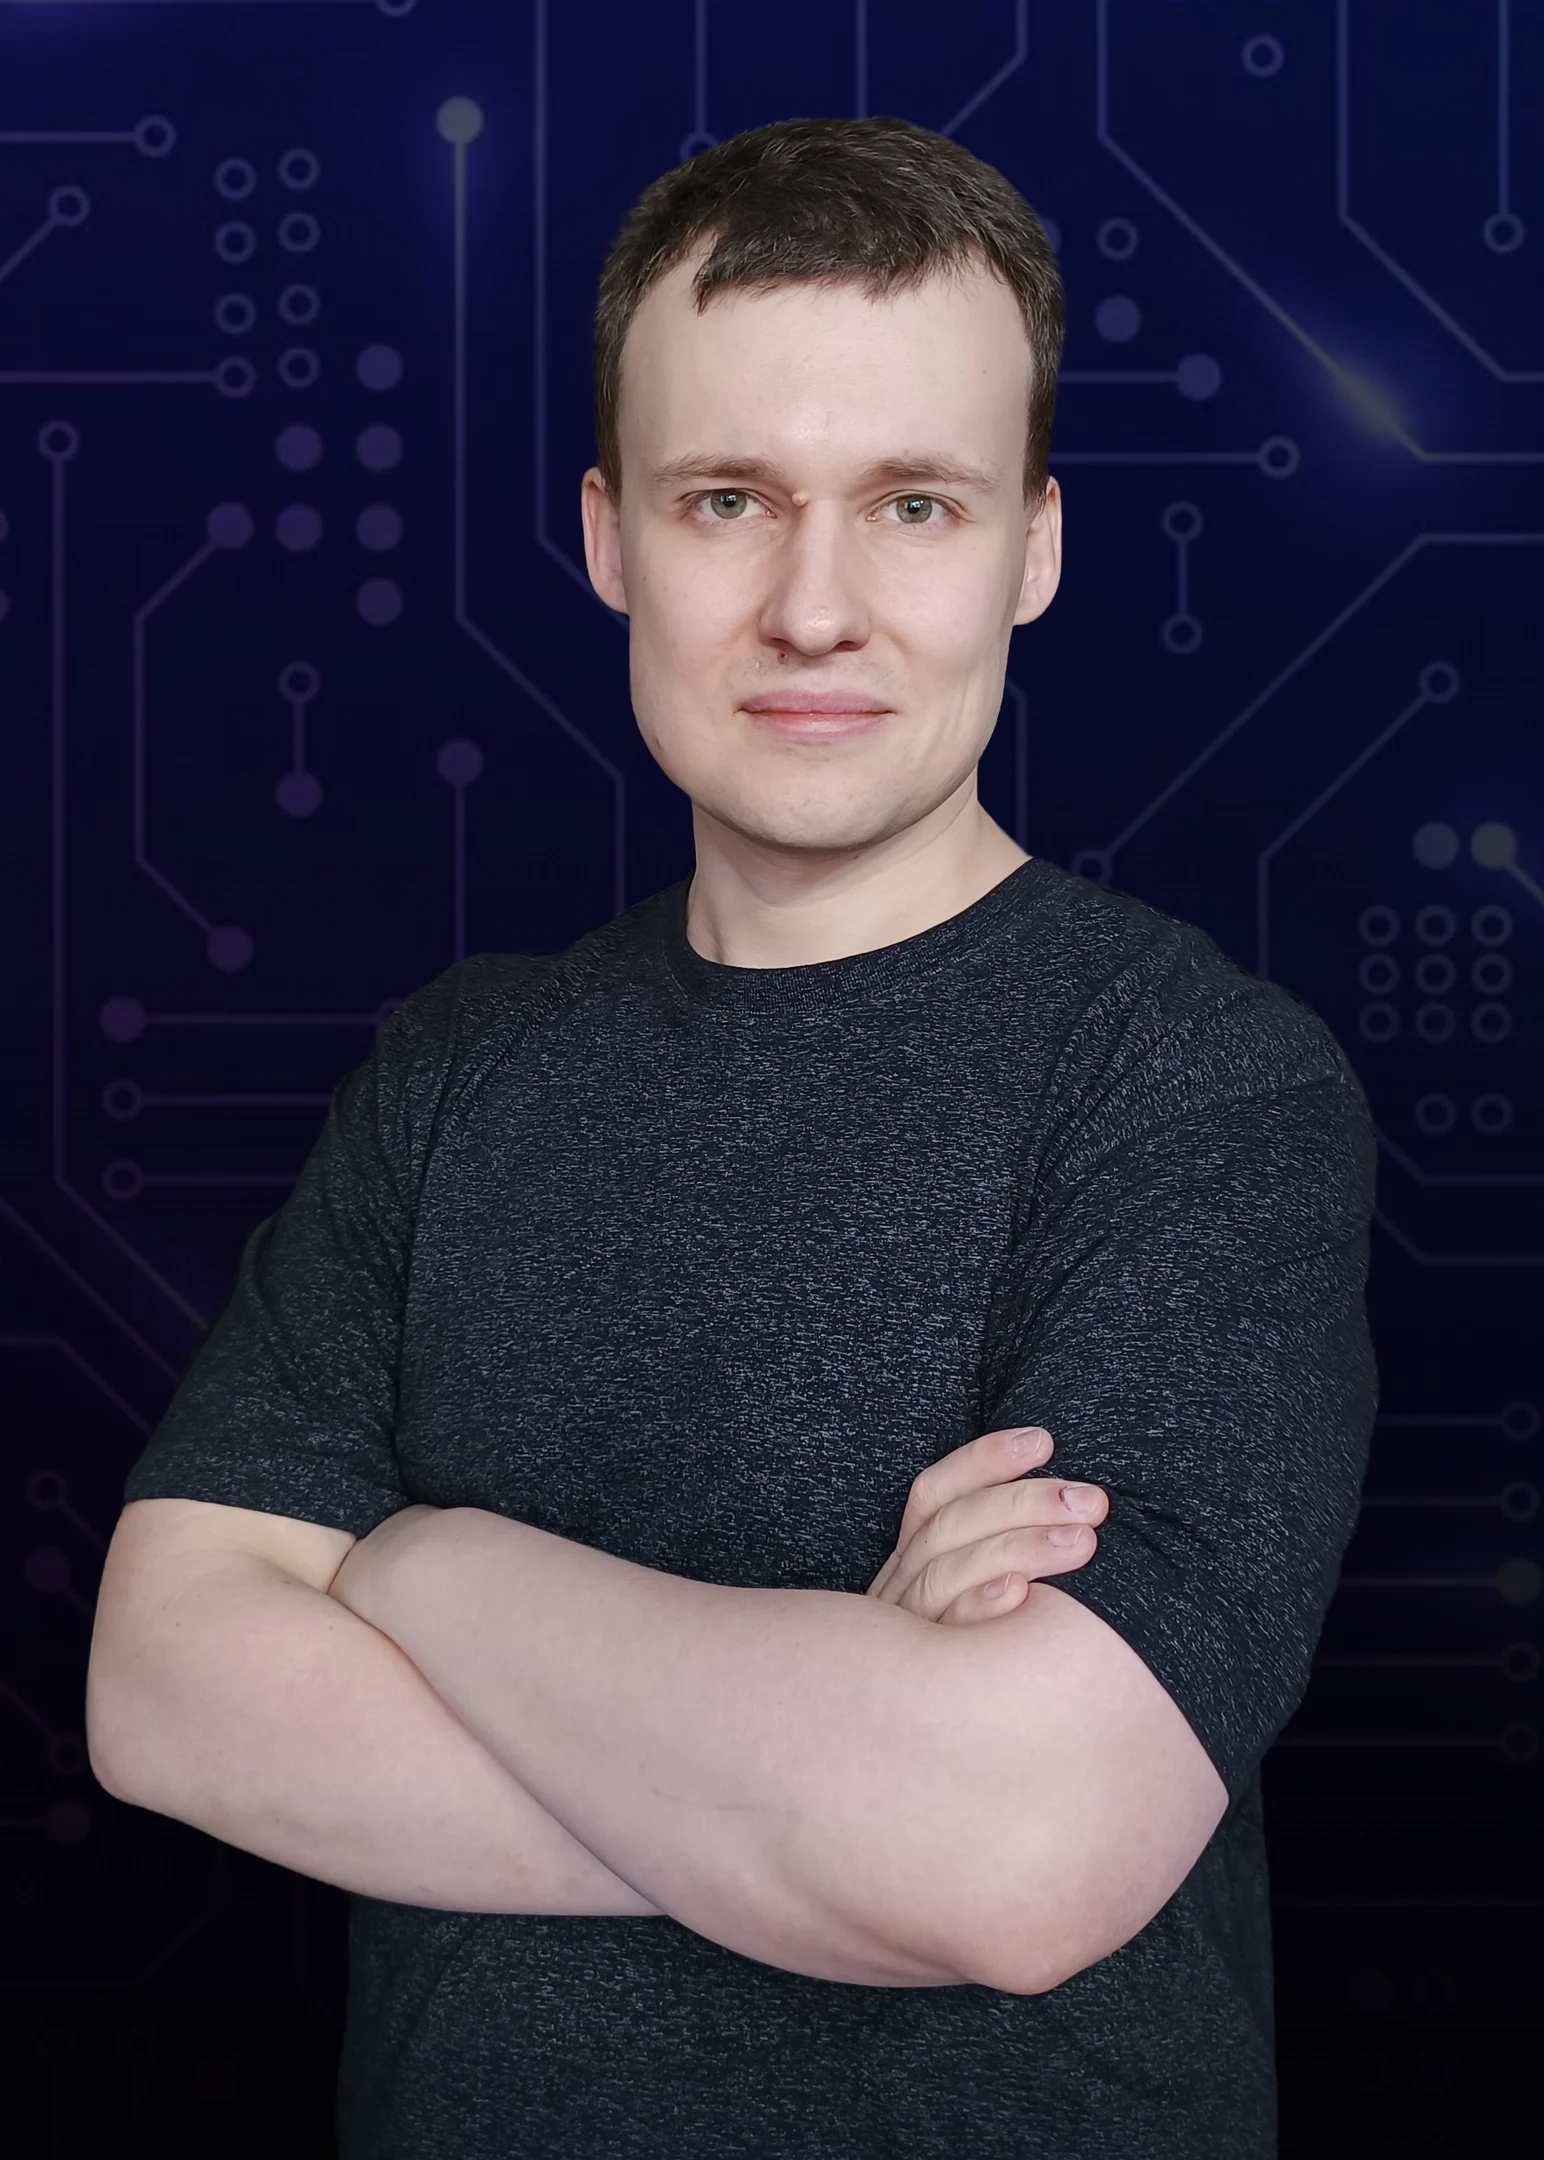
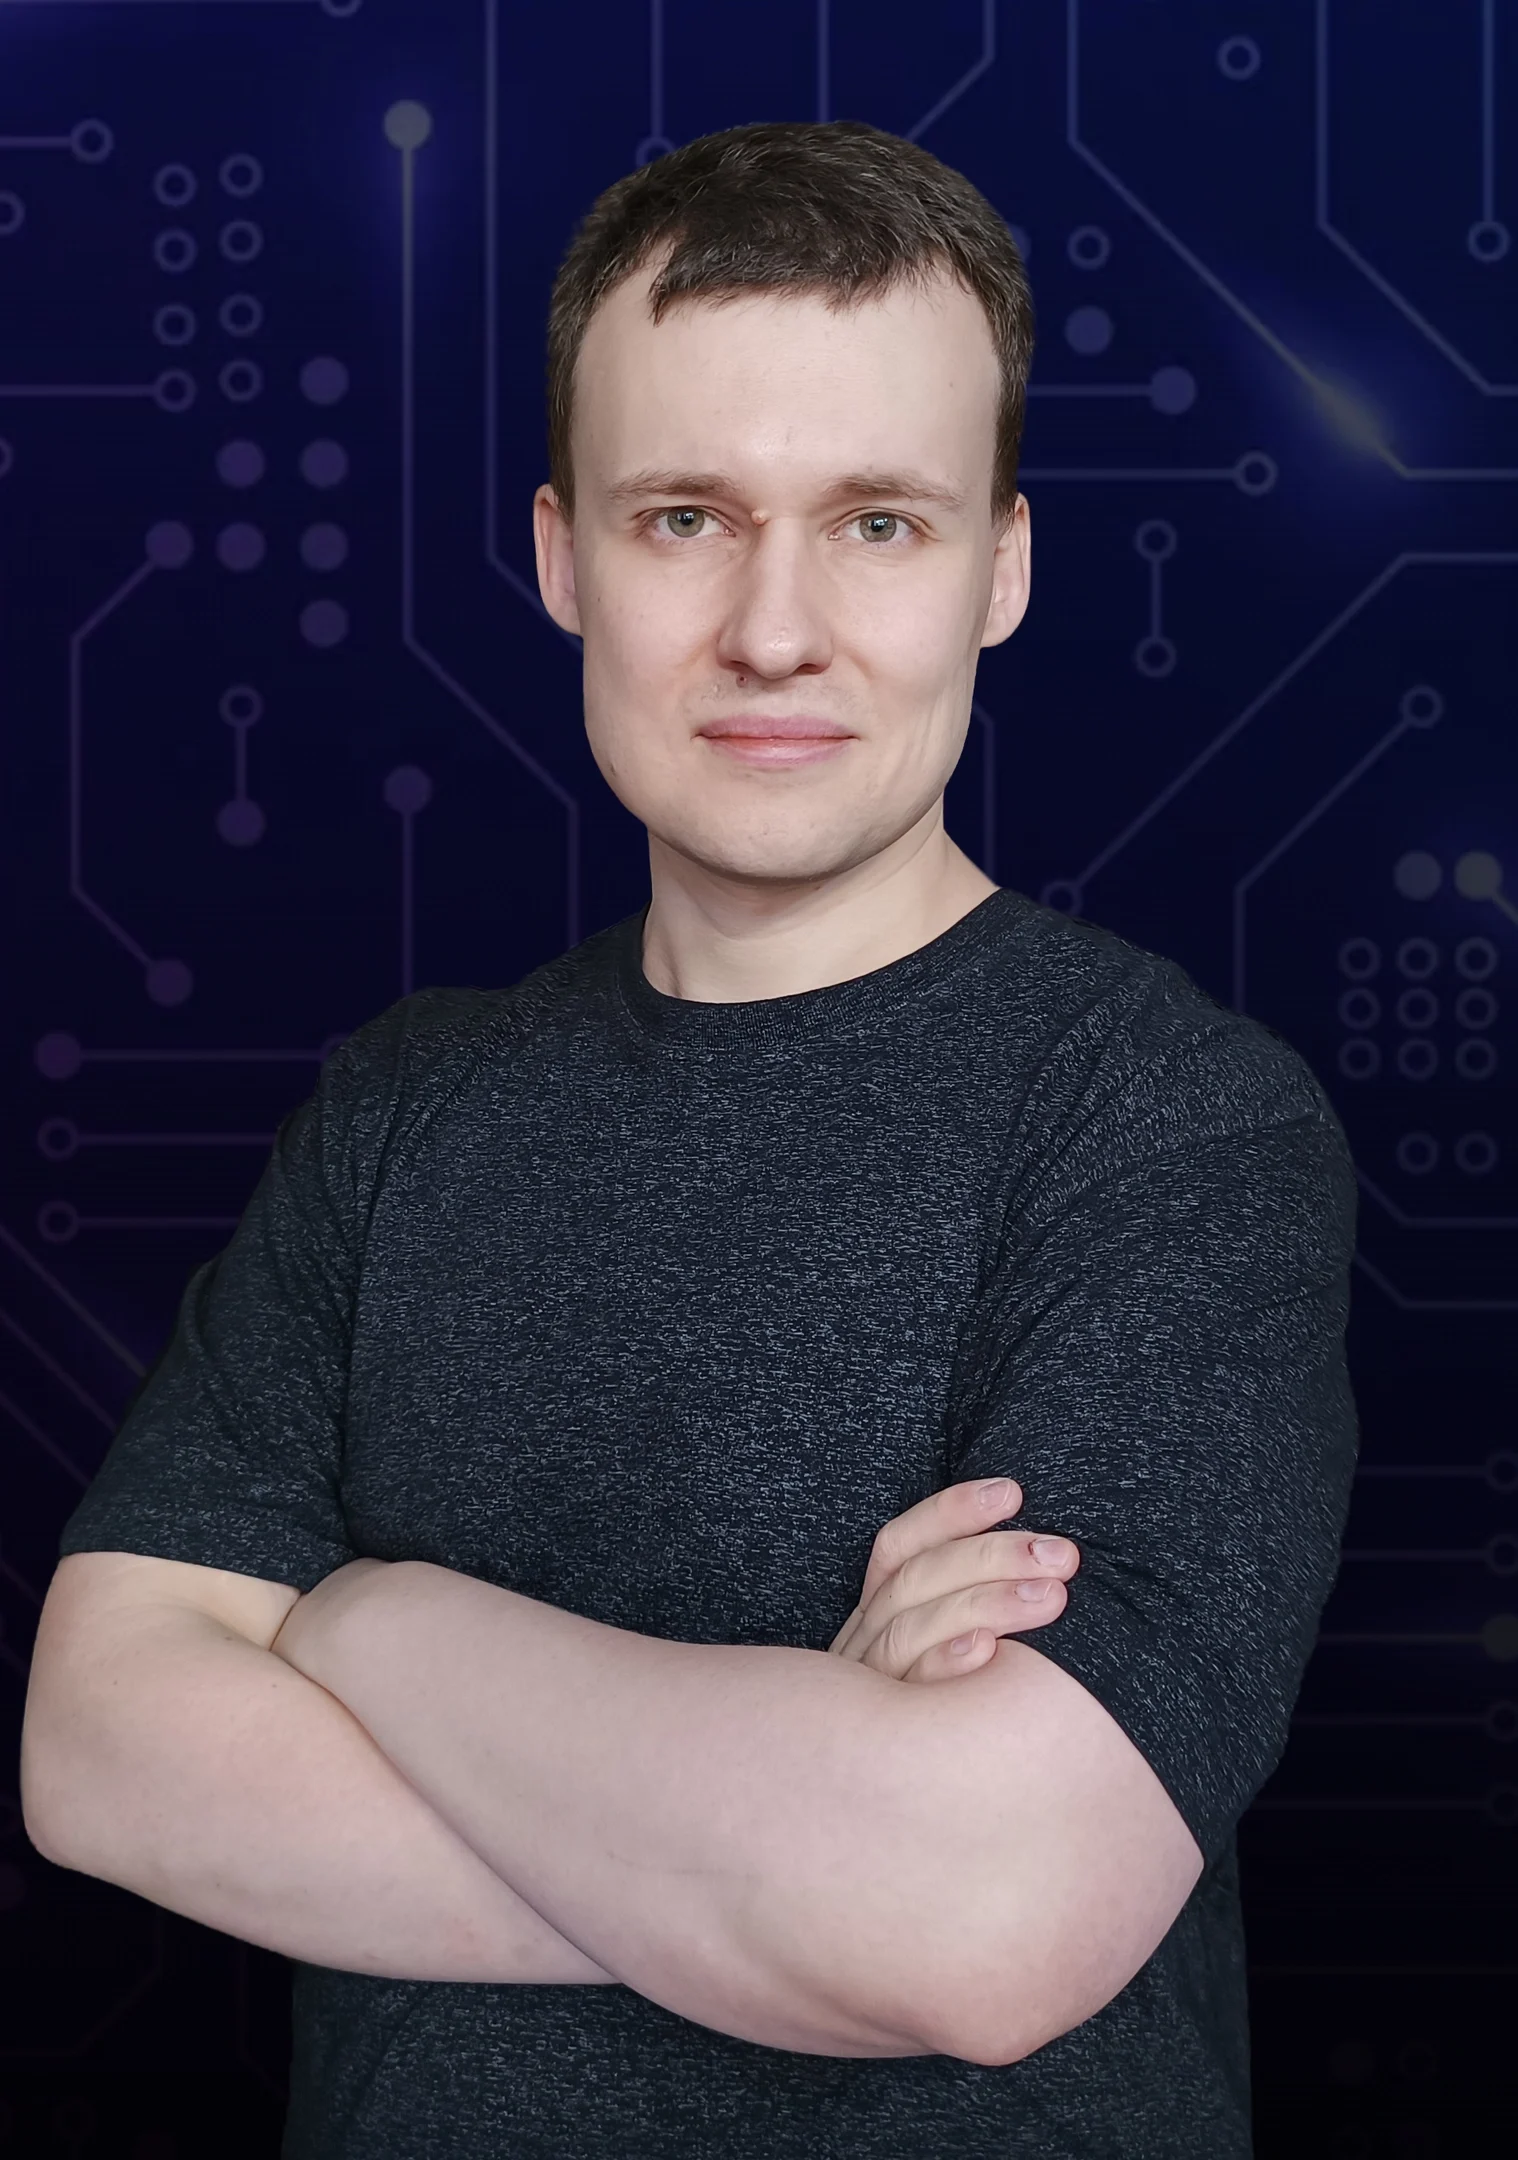
updated Wizard-Component with better css styles and scroll-into-view on step change

diff --git a/pages/advert/1.tsx b/pages/advert/1.tsx
@@ -29,7 +29,7 @@ export default function Advert1() {
       sx={{
         "& h1": {
           textTransform: "uppercase",
-          fontSize: "52pt",
+          fontSize: "48pt",
           lineHeight: "52pt",
           whiteSpace: "nowrap",
           margin: `0 0 12pt 0`,
@@ -37,6 +37,7 @@ export default function Advert1() {
         "& p": {
           margin: 0,
         },
+        border: "1px dashed black",
       }}
     >
       <h1>
@@ -44,42 +45,7 @@ export default function Advert1() {
         <LightGreyText>-</LightGreyText>в<LightGreyText>-</LightGreyText>
         Балашихе<LightGreyText>.рф</LightGreyText>
       </h1>
-      <Stack
-        direction="row"
-        width="100%"
-        alignContent={"space-between"}
-        alignItems="flex-end"
-      >
-        <Typography
-          fontSize="40pt"
-          lineHeight={"40pt"}
-          variant="h2"
-          color="grey.500"
-          fontWeight={600}
-          flexGrow={1}
-        >
-          Сайт
-        </Typography>
-        <Typography
-          fontSize="38pt"
-          lineHeight={"38pt"}
-          variant="h2"
-          color="grey.700"
-          fontWeight={600}
-        >
-          тел.&nbsp;
-        </Typography>
-        <Typography
-          fontSize="40pt"
-          lineHeight={"40pt"}
-          variant="h2"
-          color="grey.800"
-          fontWeight={600}
-        >
-          {NEXT_PUBLIC_CONTACT_PHONE_TEXT}
-        </Typography>
-      </Stack>
-      <Grid container spacing={2}>
+      <Grid container spacing={3} sx={{}}>
         <Grid
           item
           xs={4}
@@ -91,6 +57,16 @@ export default function Advert1() {
             },
           }}
         >
+          <Typography
+            fontSize="40pt"
+            lineHeight={"40pt"}
+            variant="h2"
+            color="grey.500"
+            fontWeight={600}
+            flexGrow={1}
+          >
+            Мой сайт
+          </Typography>
           <Image
             src="/images/advert/site_url_qr_code.svg"
             width={1600}
@@ -108,26 +84,55 @@ export default function Advert1() {
             textAlign: "right",
             height: "440pt",
             width: "440pt",
-            pt: "10pt",
-            "& img": {
-              position: "absolute",
-              top: "10pt",
-              left: 0,
-              right: 0,
-              height: "440pt",
-              width: "440pt",
-              objectFit: "contain",
-            },
           }}
         >
-          <Image
-            src="/images/advert/grey-master-v-balashihe-rf-screwdriver.svg"
-            width={600}
-            height={600}
-            unoptimized
-            alt=""
-            loading="eager"
-          />
+          <Stack width="100%" direction={"row"} alignItems="flex-end">
+            <Typography
+              fontSize="38pt"
+              lineHeight={"38pt"}
+              variant="h2"
+              color="grey.700"
+              fontWeight={600}
+            >
+              тел.&nbsp;
+            </Typography>
+            <Typography
+              fontSize="40pt"
+              lineHeight={"40pt"}
+              variant="h2"
+              color="grey.800"
+              fontWeight={600}
+            >
+              {NEXT_PUBLIC_CONTACT_PHONE_TEXT}
+            </Typography>
+          </Stack>
+          <Stack
+            width="100%"
+            direction={"column"}
+            alignItems="flex-end"
+            sx={{
+              position: "relative",
+              "& img": {
+                position: "absolute",
+                top: 0,
+                left: 0,
+                right: 0,
+                height: "440pt",
+                width: "440pt",
+                objectFit: "contain",
+                zIndex: -1,
+              },
+            }}
+          >
+            <Image
+              src="/images/advert/grey-master-v-balashihe-rf-screwdriver.svg"
+              width={600}
+              height={600}
+              unoptimized
+              alt=""
+              loading="eager"
+            />
+          </Stack>
         </Grid>
       </Grid>
     </Container>

diff --git a/components/site/LandingPage/LandingWizard/ImagePaper.tsx b/components/site/LandingPage/LandingWizard/ImagePaper.tsx
@@ -1,6 +1,6 @@
 import * as React from "react";
 import Image from "next/image";
-import { Paper, Typography, Box } from "@mui/material";
+import { Paper, Typography, Stack, Box } from "@mui/material";
 type ImageProps = React.ComponentProps<typeof Image>;
 type Props = React.ComponentProps<typeof Paper> & {
   src: ImageProps["src"];
@@ -9,7 +9,34 @@ type Props = React.ComponentProps<typeof Paper> & {
   value: string | null;
   onChange: (event: { target: { name: string; value: string } }) => void;
 };
-
+export const FieldSelectedValue = () => (
+  <Paper
+    elevation={3}
+    sx={{
+      zIndex: 1,
+      position: "absolute",
+      top: 0,
+      left: 0,
+      width: "35px",
+      height: "35px",
+      p: 0,
+      borderRadius: "100%",
+      backgroundColor: (theme) => theme.palette.primary.main,
+      transform: "translate(-50%,-50%)",
+      "&::before": {
+        fontFamily: "Material Icons Round",
+        fontStyle: "normal",
+        paddingLeft: 0,
+        paddingRight: "7px",
+        paddingTop: 0,
+        color: "white",
+        fontSize: "32px",
+        lineHeight: "32px",
+        content: `"\\e876"`,
+      },
+    }}
+  ></Paper>
+);
 export default function ImagePaper({
   src,
   title,
@@ -27,6 +54,7 @@ export default function ImagePaper({
         cursor: "pointer",
         height: "100%",
         width: "100%",
+        minWidth: { xs: "85vw", sm: "inherit" },
         p: { xs: 0, sm: "7px" },
         overflow: "visible",
         borderRadius: "10px",
@@ -35,7 +63,6 @@ export default function ImagePaper({
         "& img": {
           height: "auto",
           width: { xs: "150px", sm: "100%" },
-          mx: { xs: "20px", sm: "inherit" },
           transition: "linear",
           transitionDuration: "0.2s",
           transform: "scale(1.001)",
@@ -45,57 +72,36 @@ export default function ImagePaper({
             transform: "scale(1.1)",
           },
         },
-        display: { xs: "flex", sm: "inherit" },
-        flexDirection: { xs: "row", sm: "none" },
         "& .title": {
-          p: { xs: "30px", sm: 0 },
+          pt: { xs: "30px", sm: 0 },
+          pb: { xs: "10px", sm: 0 },
+          pl: { xs: "20px", sm: 0 },
+          pr: { xs: "10px", sm: 0 },
+          textAlign: { sx: "left", sm: "center" },
+          fontWeight: 400,
+          fontSize: "18px",
+          mt: "-4px",
+          wordBreak: { xs: "break-word", sm: "inherit" },
         },
         ...sx,
       }}
       onClick={() => onChange({ target: { name, value: title } })}
       {...rest}
     >
-      {value === title && (
-        <Paper
-          elevation={3}
-          sx={{
-            zIndex: 1,
-            position: "absolute",
-            top: 0,
-            left: 0,
-            width: "35px",
-            height: "35px",
-            p: 0,
-            borderRadius: "100%",
-            backgroundColor: (theme) => theme.palette.primary.main,
-            transform: "translate(-50%,-50%)",
-            "&::before": {
-              fontFamily: "Material Icons Round",
-              fontStyle: "normal",
-              paddingLeft: 0,
-              paddingRight: "7px",
-              paddingTop: 0,
-              color: "white",
-              fontSize: "32px",
-              lineHeight: "32px",
-              content: `"\\e876"`,
-            },
-          }}
-        ></Paper>
-      )}
-      <Image src={src} alt="" width={300} height={300} />
-      <Typography
-        className={"title"}
-        component={"div"}
+      {value === title && <FieldSelectedValue />}
+      <Stack
+        width="100%"
+        direction="row"
         sx={{
-          fontWeight: 400,
-          fontSize: "18px",
-          mt: "-4px",
-          textAlign: "center",
+          display: { xs: "flex", sm: "block" },
+          flexDirection: { xs: "row", sm: "none" },
         }}
       >
-        {title}
-      </Typography>
+        <Image src={src} alt="" width={300} height={300} />
+        <Typography className={"title"} component={"div"}>
+          {title}
+        </Typography>
+      </Stack>
     </Paper>
   );
 }

diff --git a/components/site/contacts/Wizard/Providers/MyStepWizard.tsx b/components/site/contacts/Wizard/Providers/MyStepWizard.tsx
@@ -130,6 +130,7 @@ const MyStepWizard = ({
   const [progressPercents, setProgressPercents] = React.useState<number>(
     (currentStep / (totalSteps || 1)) * 100
   );
+  const containerRef = useRef<HTMLDivElement | null>(null);
   const setCurrentStep = (nextStepIndex: number): void => {
     if (nextStepIndex > totalSteps) {
       return;
@@ -145,6 +146,14 @@ const MyStepWizard = ({
     setStepsHistory(newStepHistory);
     __setCurrentStep(nextStepIndex);
     setProgressPercents((nextStepIndex / (totalSteps || 1)) * 100);
+    process.nextTick(() => {
+      if (
+        containerRef.current &&
+        typeof containerRef.current.scrollIntoView === "function"
+      ) {
+        containerRef.current.scrollIntoView();
+      }
+    });
   };
   const goToNamedStep = (step: string): void => {
     const namedStepIndex = collectedStepsNames.get(step)?.index;
@@ -211,6 +220,7 @@ const MyStepWizard = ({
     goToStep,
     goToNamedStep,
     currentStep,
+    containerRef,
   });
   sidebar =
     sidebar && !showOnlyStep && !noSidebar
@@ -229,17 +239,18 @@ const MyStepWizard = ({
     <>
       {!sidebar ? (
         <Box
+          ref={containerRef}
           sx={{
             display: "flex",
             flexDirection: "column",
             "& form": {
               height: "100%",
+              width: "100%",
               flexGrow: 1,
             },
             "& .in-slider-container": {
               width: "100%",
-              px: "27px",
-              py: "19px",
+              p: { xs: "19px 10px 19px 20px", sm: "19px 27px" },
             },
             ...StepContainerProps?.sx,
           }}
@@ -312,6 +323,7 @@ const MyStepWizard = ({
         </Box>
       ) : (
         <Grid
+          ref={containerRef}
           container
           sx={{
             ...sx,

diff --git a/pages/computer-master-balashiha.tsx b/pages/computer-master-balashiha.tsx
@@ -190,7 +190,7 @@ export const getStaticProps = async (context: GetStaticPropsContext) => {
       ...article.image,
       ...makeImageType({
         url: imageUrl,
-        width: 1504,
+        width: 1518,
         height: 2160,
         alt: `Дмитрий, компьютерный мастер в Балашихе, выпускник МГТУ МИРЭА (РТУ МИРЭА)`,
       }),
